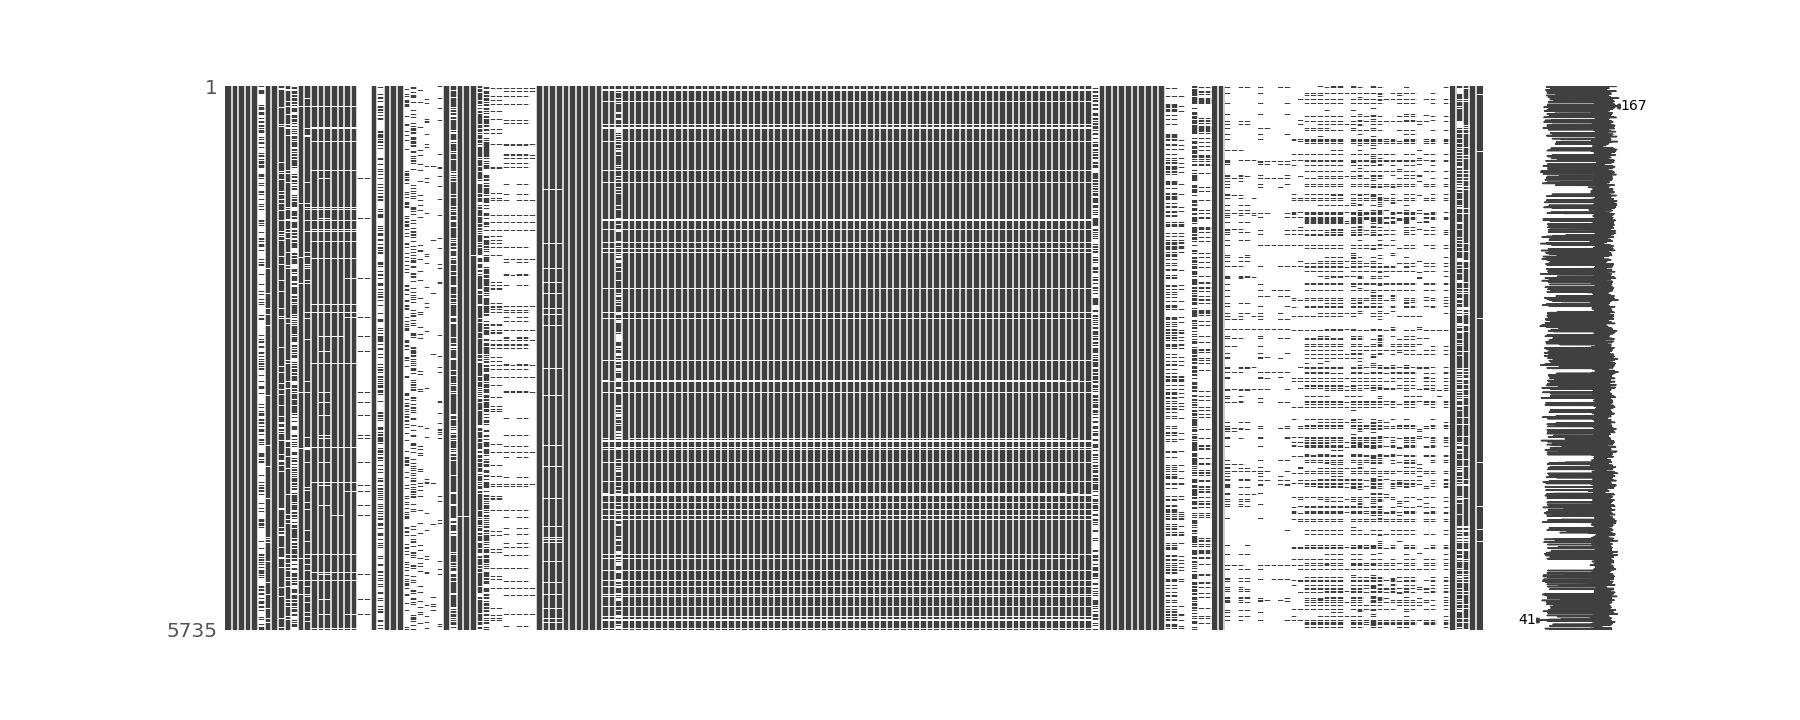
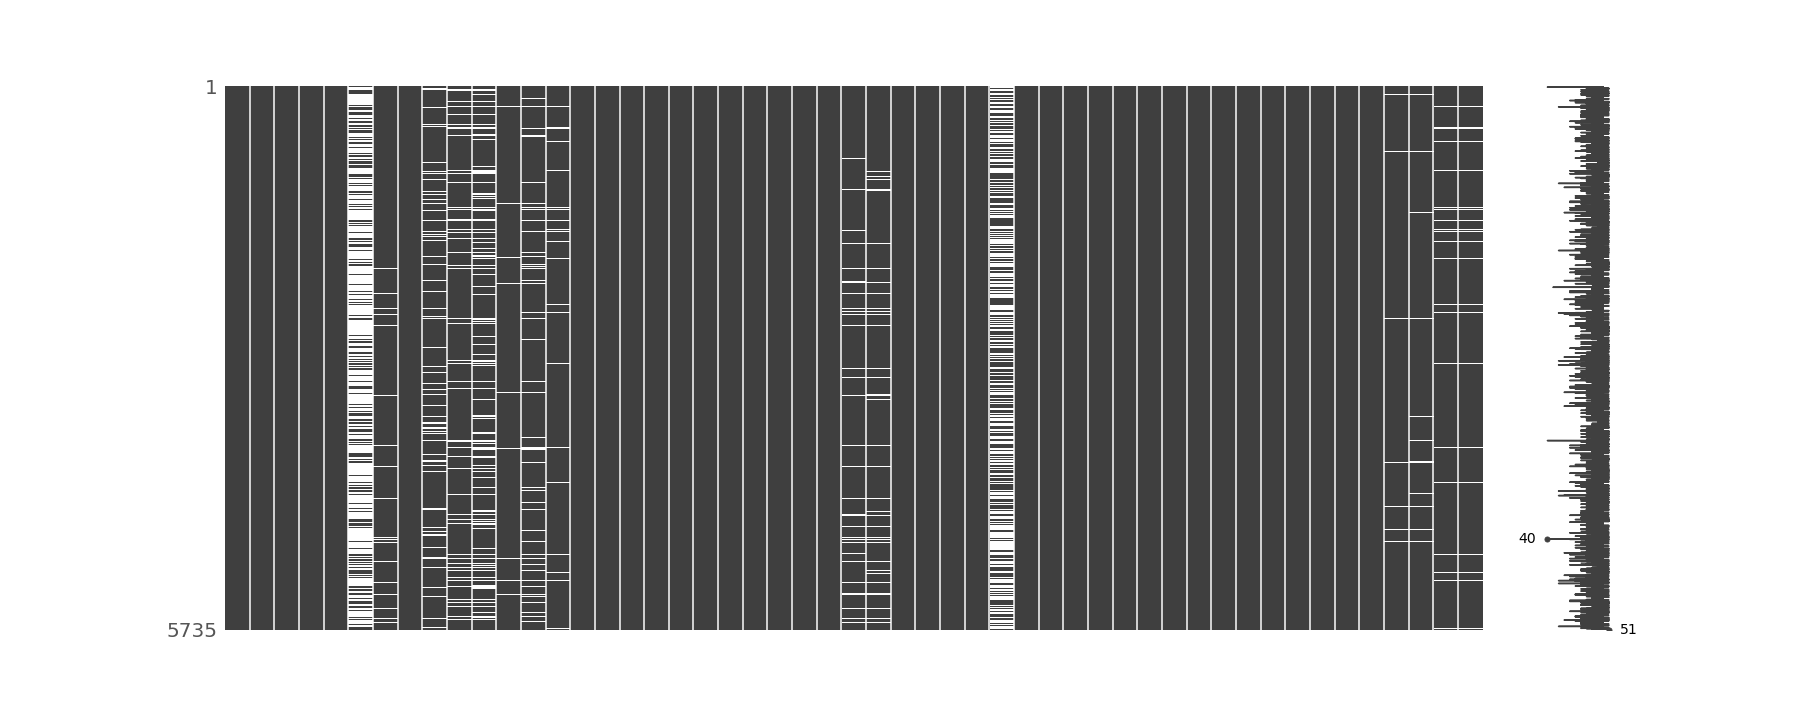
Complete initial cleaning, update msno after image

Changed region(s): [[0.1244, 0.1222, 0.9022, 0.8861]]

diff --git a/src/clean.py b/src/clean.py
@@ -1,10 +1,13 @@
+import numpy as np
 import pandas as pd
+import missingno as msno
 import boto3
 import io
-
 s3 = boto3.client('s3')
+
 obj = s3.get_object(Bucket='health-survey-tables', Key='2016/demo.csv')
-data = pd.read_csv(io.BytesIO(obj['Body'].read())).set_index('SEQN')
+table = pd.read_csv(io.BytesIO(obj['Body'].read())).set_index('SEQN')
+
 key_list = []
 s3objects = s3.list_objects_v2(Bucket='health-survey-tables', StartAfter='2016/' )
 for object in s3objects['Contents']:
@@ -13,8 +16,10 @@ key_list.remove('2016/demo.csv')
 
 for key in key_list:
     response = s3.get_object(Bucket='health-survey-tables', Key=key)
-    data = pd.concat([data, pd.read_csv(io.BytesIO(response['Body'].read())).set_index('SEQN')], axis=1,verify_integrity=True)
-adults = data[(data['RIDAGEYR']>=18) & (data['RIDSTATR']==2)]
+    table = pd.concat([table, pd.read_csv(io.BytesIO(response['Body'].read())).set_index('SEQN')],
+                      axis=1,verify_integrity=True)
+    
+adults = table[(table['RIDAGEYR']>=18) & (table['RIDSTATR']==2)]
 weight_2yrint = adults['WTINT2YR']
 weight_2yrmec = adults['WTMEC2YR']
 adults.drop(['WTINT2YR', 'WTMEC2YR'], axis=1, inplace=True)
@@ -38,29 +43,26 @@ for num in heart_history.index:
 adults.drop(adults.loc[:,'CDQ001':'CDQ010'], axis=1, inplace=True)
 adults.drop(adults.loc[:,'MCQ160B':'MCQ180F'], axis=1, inplace=True)
 
+adults['DMDEDUC2'][((adults['RIDAGEYR']==18) | (adults['RIDAGEYR']==19)) & (adults['DMDEDUC3']==15)] = 0
+sys = adults[['BPXSY1', 'BPXSY2', 'BPXSY3', 'BPXSY4']]
+dia = adults[['BPXDI1', 'BPXDI2', 'BPXDI3', 'BPXDI4']]
+adults['AVGSYS'] = np.nanmean(sys, axis=1)
+adults['AVGDIA'] = np.nanmean(dia, axis=1)
+adults['DBD900'][(adults['DBD895']==0) &(pd.isna(adults['DBD900']))] = 0
+
 #demo
-adults.drop(['SDDSRVYR', 'RIDSTATR', 'RIDAGEMN', 'RIDRETH1', 'RIDEXMON', 'RIDEXAGM', 'DMDCITZN', 'DMDEDUC3'], axis=1, inplace=True)
+adults.drop(['SDDSRVYR', 'RIDSTATR', 'RIDAGEMN', 'RIDRETH1', 'DMQADFC', 'RIDEXMON', 'RIDEXAGM', 'DMDCITZN', 'DMDEDUC3'], axis=1, inplace=True)
 adults.drop(adults.loc[:,'RIDEXPRG':'DMDHSEDU'], axis=1, inplace=True)
 adults.drop(adults.loc[:,'SDMVPSU':'INDFMIN2'], axis=1, inplace=True)
 
-#nutrients
-adults.drop(['DR1EXMER_nutrient1', 'DRABF_nutrient1'], axis=1, inplace=True)
-adults.drop(adults.loc[:,'DR1DBIH_nutrient1':'DR1HELP_nutrient1'], axis=1, inplace=True)
-adults.drop(adults.loc[:,'DR1STY':'DRQSDT91'], axis=1, inplace=True)
-adults.drop(adults.loc[:,'DR1_330Z':'DR1TWS'], axis=1, inplace=True)
-adults.drop(adults.loc[:,'DRD350A':'DRD350K'], axis=1, inplace=True)
-adults.drop(adults.loc[:,'DRD370A':'DRD370V'], axis=1, inplace=True)
-adults.drop(['DR2EXMER_nutrient2', 'DRABF_nutrient2', 'DR2STY', 'DR2SKY'], axis=1, inplace=True)
-adults.drop(adults.loc[:,'DR2DBIH_nutrient2':'DR2HELP_nutrient2'], axis=1, inplace=True)
-adults.drop(adults.loc[:,'DR2_330Z':'DR2TWS'], axis=1, inplace=True)
 
 #supps
 adults.drop(['DSDANCNT', 'DSD010'], axis=1, inplace=True)
+adults.drop(adults.loc[:,'DSQTKCAL':'DSQTIODI'], axis=1, inplace=True)
 
 #bp exam
-adults.drop(['BPAEN1', 'BPAEN2', 'BPAEN3', 'BPAEN4'], axis=1, inplace=True)
 adults.drop(adults.loc[:,'PEASCCT1':'BPACSZ'], axis=1, inplace=True)
-adults.drop(adults.loc[:,'BPXPULS':'BPXML1'], axis=1, inplace=True)
+adults.drop(adults.loc[:,'BPXPULS':'BPAEN4'], axis=1, inplace=True)
 
 #body measure
 adults.drop('BMDSADCM', axis=1, inplace=True)
@@ -77,30 +79,20 @@ adults.drop(adults.loc[:,'BPQ060':'BPQ100D'], axis=1, inplace=True)
 
 #diet
 adults.drop(adults.loc[:,'DBQ010':'DBQ073U'], axis=1, inplace=True)
-adults.drop(adults.loc[:,'DBQ229':'DBQ424'], axis=1, inplace=True)
+adults.drop(adults.loc[:,'DBQ223A':'DBQ424'], axis=1, inplace=True)
 adults.drop(adults.loc[:,'CBQ596':'CBQ590'], axis=1, inplace=True)
 
 #disability
-adults.drop(['DLQ060', 'DLQ080', 'DLQ110'], axis=1, inplace=True)
-adults.drop(adults.loc[:,'DLQ010':'DLQ040'], axis=1, inplace=True)
-adults.drop(adults.loc[:,'DLQ140':'DLQ170'], axis=1, inplace=True)
+adults.drop(adults.loc[:,'DLQ010':'DLQ080'], axis=1, inplace=True)
+adults.drop(adults.loc[:,'DLQ110':'DLQ170'], axis=1, inplace=True)
 
-#drugs
-adults.drop('DUQ280', axis=1, inplace=True)
-adults.drop(adults.loc[:,'DUQ210':'DUQ215U'], axis=1, inplace=True)
-adults.drop(adults.loc[:,'DUQ220Q':'DUQ240'], axis=1, inplace=True)
-adults.drop(adults.loc[:,'DUQ260':'DUQ270U'], axis=1, inplace=True)
-adults.drop(adults.loc[:,'DUQ300':'DUQ320'], axis=1, inplace=True)
-adults.drop(adults.loc[:,'DUQ340':'DUQ350U'], axis=1, inplace=True)
-adults.drop(adults.loc[:,'DUQ360':'DUQ430'], axis=1, inplace=True)
 
 #insurance
 adults.drop(adults.loc[:,'HIQ031A':'HIQ210'], axis=1, inplace=True)
 
 #medical conditions
-adults.drop('MCQ300B', axis=1, inplace=True)
-adults.drop(adults.loc[:,'MCQ010':'MCQ053'], axis=1, inplace=True)
-adults.drop(adults.loc[:,'MCD093':'MCQ180N'], axis=1, inplace=True)
+adults.drop(['MCQ160G', 'MCQ300B'], axis=1, inplace=True)
+adults.drop(adults.loc[:,'MCQ010':'MCQ180N'], axis=1, inplace=True)
 adults.drop(adults.loc[:,'MCQ180G':'MCQ240Z'], axis=1, inplace=True)
 adults.drop(adults.loc[:,'MCQ370A':'OSQ230'], axis=1, inplace=True)
 
@@ -117,14 +109,81 @@ adults.drop(adults.loc[:, 'PAQ722':'PAQ772C'], axis=1, inplace=True)
 adults.drop(['SLQ300', 'SLQ310', 'SLQ030', 'SLQ040', 'SLQ050'], axis=1, inplace=True)
 
 #smoking
-adults.drop(adults.loc[:,'SMQ050Q':'SMD641'], axis=1, inplace=True)
-adults.drop(adults.loc[:,'SMD093':'SMD100CO'], axis=1, inplace=True)
-adults.drop(adults.loc[:,'SMD630':'SMQ852U'], axis=1, inplace=True)
-adults.drop(adults.loc[:,'SMQ080':'SMAQUEX2'], axis=1, inplace=True)
+adults.drop(adults.loc[:,'SMQ050Q':'SMAQUEX2'], axis=1, inplace=True)
 
 #weight history
-adults.drop(['WHD130', 'WHQ190', 'WHQ200'], axis=1, inplace=True)
+adults.drop(['WHD110', 'WHD120', 'WHD130', 'WHQ190', 'WHQ200'], axis=1, inplace=True)
 adults.drop(adults.loc[:,'WHD010':'WHD080L'], axis=1, inplace=True)
+
+adults['RIAGENDR'][adults['RIAGENDR']==2] = 0
+adults['DMQMILIZ'][adults['DMQMILIZ']==2] = 0
+adults['DMDBORN4'][adults['DMDBORN4']>1] = 0
+adults['BPQ020'][adults['BPQ020'] > 1] = 0
+adults['BPQ080'][adults['BPQ080'] > 1] = 0
+adults['DBQ700'][adults['DBQ700']==9] = 3
+adults['DBQ197'][adults['DBQ197']==4] = np.array([3, 3, 2, 2, 3, 3, 2, 2, 3, 3, 3, 2, 3, 3, 2, 2, 3, 2])
+#adults['DBQ197'] hard-coded with result of np.random.randint
+adults['DBD895'][adults['DBD895'] == 5555] = 22
+adults['DBD895'][adults['DBD895'] == 9999] = round(adults['DBD895'][adults['DBD895'] != 9999].mean())
+adults['HIQ011'][adults['HIQ011']>1] = 0
+adults['MCQ365A'][adults['MCQ365A'] > 1] = 0
+adults['MCQ365B'][adults['MCQ365B'] > 1] = 0
+adults['MCQ365C'][adults['MCQ365C'] > 1] = 0
+adults['MCQ365D'][adults['MCQ365D'] > 1] = 0
+adults['PAQ605'][adults['PAQ605'] > 1] = 0
+adults['PAQ620'][adults['PAQ620'] > 1] = 0
+adults['PAQ635'][adults['PAQ635'] > 1] = 0
+adults['PAQ650'][adults['PAQ650'] > 1] = 0
+adults['PAQ665'][adults['PAQ665'] > 1] = 0
+adults['PAQ710'][adults['PAQ710'] == 8] = 0
+adults['PAQ710'][(adults['PAQ710'] == 99) | (adults['PAQ710'] == 77)] = round(adults['PAQ710'][(adults['PAQ710'] != 99) & (adults['PAQ710'] != 77)].mean())
+adults['PAQ715'][adults['PAQ715'] == 8] = 0
+adults['PAQ715'][(adults['PAQ715'] == 99) | (adults['PAQ715'] == 77)] = round(adults['PAQ715'][(adults['PAQ715'] != 99) & (adults['PAQ715'] != 77)].mean())
+adults['SLQ120'][adults['SLQ120'] < 3] = 0
+adults['SLQ120'][adults['SLQ120'] >= 3] = 1
+adults['SMQ020'][adults['SMQ020'] > 1] = 0
+adults['DSDCOUNT'][(adults['DSDCOUNT'] == 99) | (adults['DSDCOUNT'] == 77)] = round(adults['DSDCOUNT'][(adults['DSDCOUNT'] != 99) & (adults['DSDCOUNT'] != 77)].mean())
+adults['DSD010AN'][adults['DSD010AN'] > 1] = 0
+adults['WHQ225'][adults['WHQ225'] >= 5] = 0
+adults['WHQ225'][adults['WHQ225'] < 5] = 1
+adults['DMDYRSUS'][adults['DMDYRSUS'] >= 4] = 1
+adults['DMDYRSUS'][adults['DMDYRSUS'] < 4] = 0
+adults['DMDMARTL'][(adults['DMDMARTL'] <= 4) | (adults['DMDMARTL'] == 77)] = 1
+adults['DMDMARTL'][(adults['DMDMARTL'] > 4) | (pd.isna(adults['DMDMARTL']))] = 0
+#adults['DMDMARTL'] missing values were all individuals under age 20, who were not asked the question
+adults['DMDEDUC2'][(adults['DMDEDUC2'] <= 3) | (adults['DMDEDUC2'] == 9)] = 0
+adults['DMDEDUC2'][adults['DMDEDUC2'] > 3] = 1
+adults['ALQ101'][adults['ALQ101']==9] = np.nan
+adults['ALQ141Q'][(adults['ALQ141Q'] == 777) | (adults['ALQ141Q'] == 999)] = np.nan
+adults['ALQ141Q'][(adults['ALQ101']==2) & (pd.isna(adults['ALQ141Q']))] = 0
+adults['BPQ030'][(adults['BPQ030'] > 1) | (pd.isna(adults['BPQ030']))] = 0
+adults['DBD900'][(adults['DBD900'] == 9999) | (adults['DBD900'] == 7777)] = np.nan
+adults['DBD900'][pd.isna(adults['DBD900'])] = round(np.nanmean(adults['DBD900']))
+adults['DBD905'][adults['DBD905'] == 6666] = 91
+adults['DBD905'][(adults['DBD905'] == 9999) | (adults['DBD905'] == 7777)] = np.nan
+adults['DBD905'][pd.isna(adults['DBD905'])] = round(np.nanmean(adults['DBD905']))
+adults['DBD910'][(adults['DBD910'] == 9999) | (adults['DBD910'] == 7777)] = np.nan
+adults['DBD910'][pd.isna(adults['DBD910'])] = round(np.nanmean(adults['DBD910']))
+adults['DLQ100'][(adults['DLQ100'] >= 3) | pd.isna(adults['DLQ100'])] = 0
+adults['DLQ100'][adults['DLQ100'] < 3] = 1
+adults['MCQ300A'][adults['MCQ300A'] == 2] = 0
+adults['MCQ300A'][(adults['MCQ300A'] == 9) | (adults['MCQ300A'] == 7)] = np.nan
+adults['MCQ300C'][adults['MCQ300C'] == 2] = 0
+adults['MCQ300C'][(adults['MCQ300C'] == 9) | (adults['MCQ300C'] == 7)] = np.nan
+adults['OCQ180'][(adults['OCQ180'] == 99999) | (adults['OCQ180'] == 77777)] = np.nan
+adults['SLD012'][pd.isna(adults['SLD012'])] = round(np.nanmean(adults['SLD012']))
+adults['SMD030'][pd.isna(adults['SMD030'])] = 0
+adults['SMD030'][(adults['SMD030'] == 999) | (adults['SMD030'] == 777)] = round(adults['SMD030'][(adults['SMD030'] != 999) & (adults['SMD030'] != 777) & (adults['SMD030'] != 0)].mean())
+adults['SMQ040'][adults['SMQ040'] == 2] = 1
+adults['SMQ040'][(adults['SMQ040'] > 2) | (pd.isna(adults['SMQ040']))] = 0
+adults['WHD140'][(adults['WHD140'] == 9999) | (adults['WHD140'] == 7777)] = np.nan
+adults['WHQ150'][adults['WHQ150'] == 99999] = np.nan
+
+race = pd.get_dummies(adults['RIDRETH3'], prefix='race')
+diet_health = pd.get_dummies(adults['DBQ700'], prefix='diet_health')
+milk = pd.get_dummies(adults['DBQ197'], prefix='milk')
+data = pd.concat([adults, race, diet_health, milk], axis=1)
+data.drop(['RIDRETH3', 'DBQ700', 'DBQ197'], axis=1, inplace=True)
 
 '''
 initial drop--
